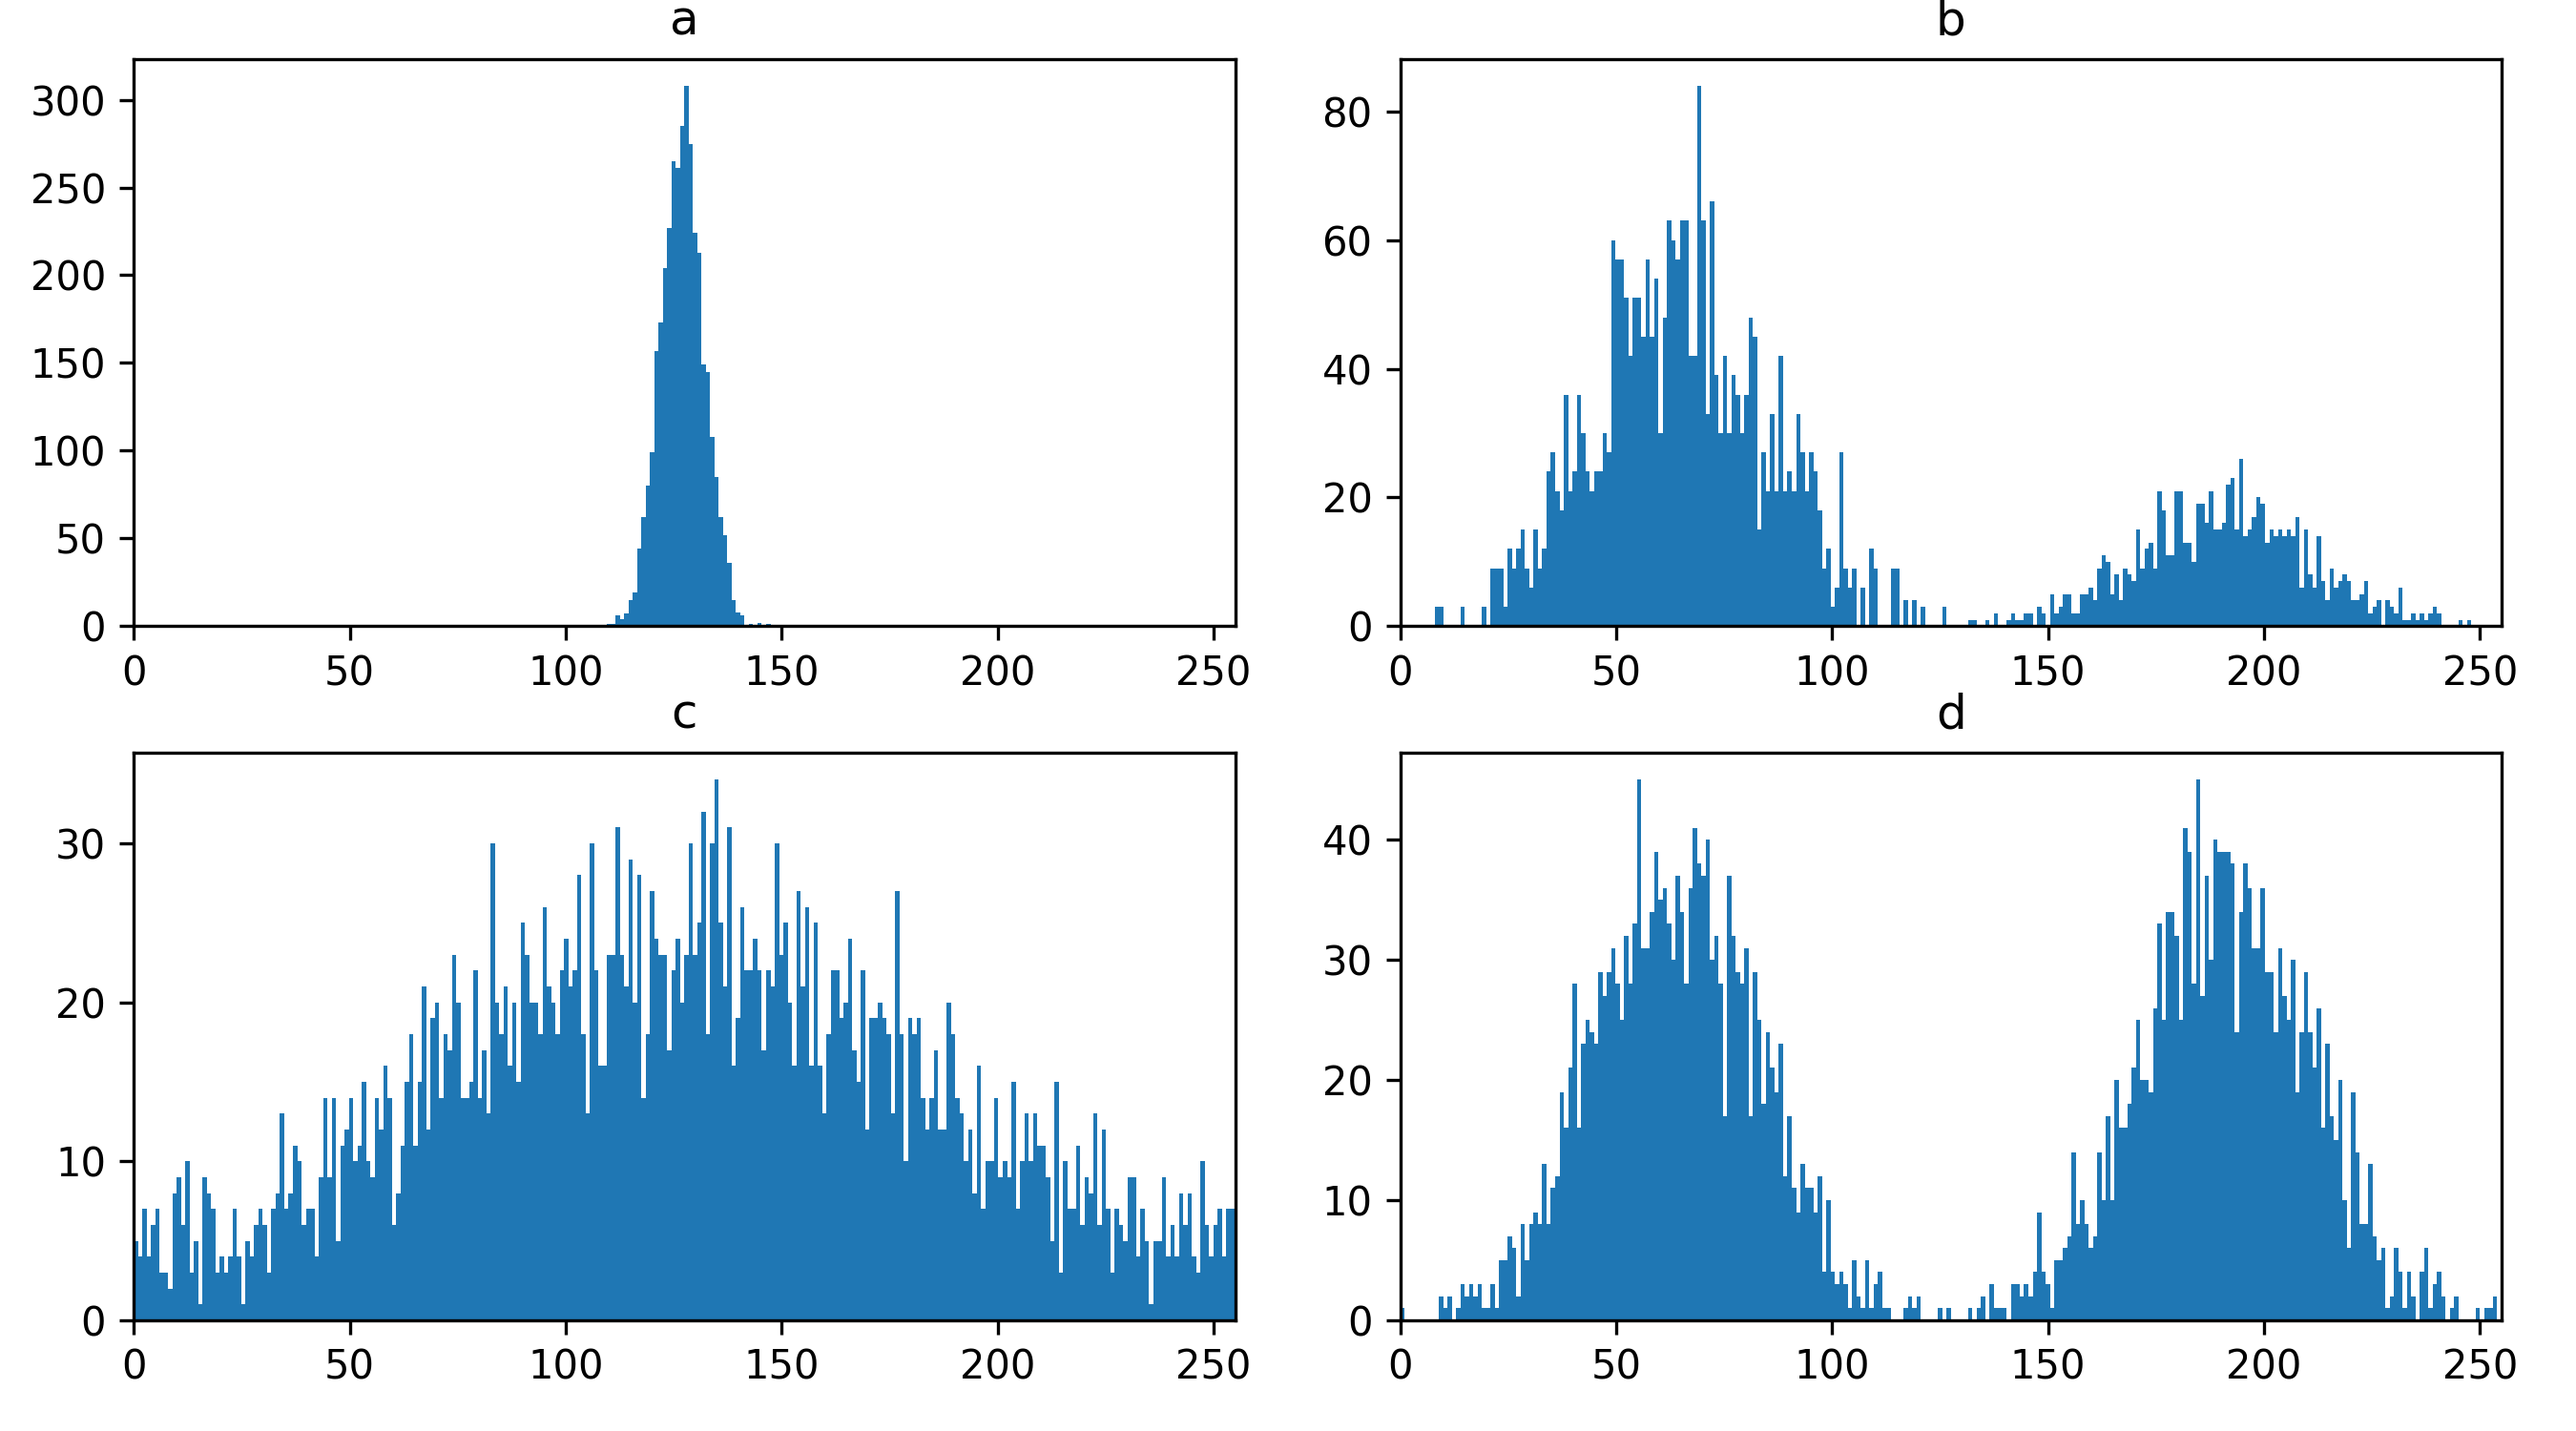
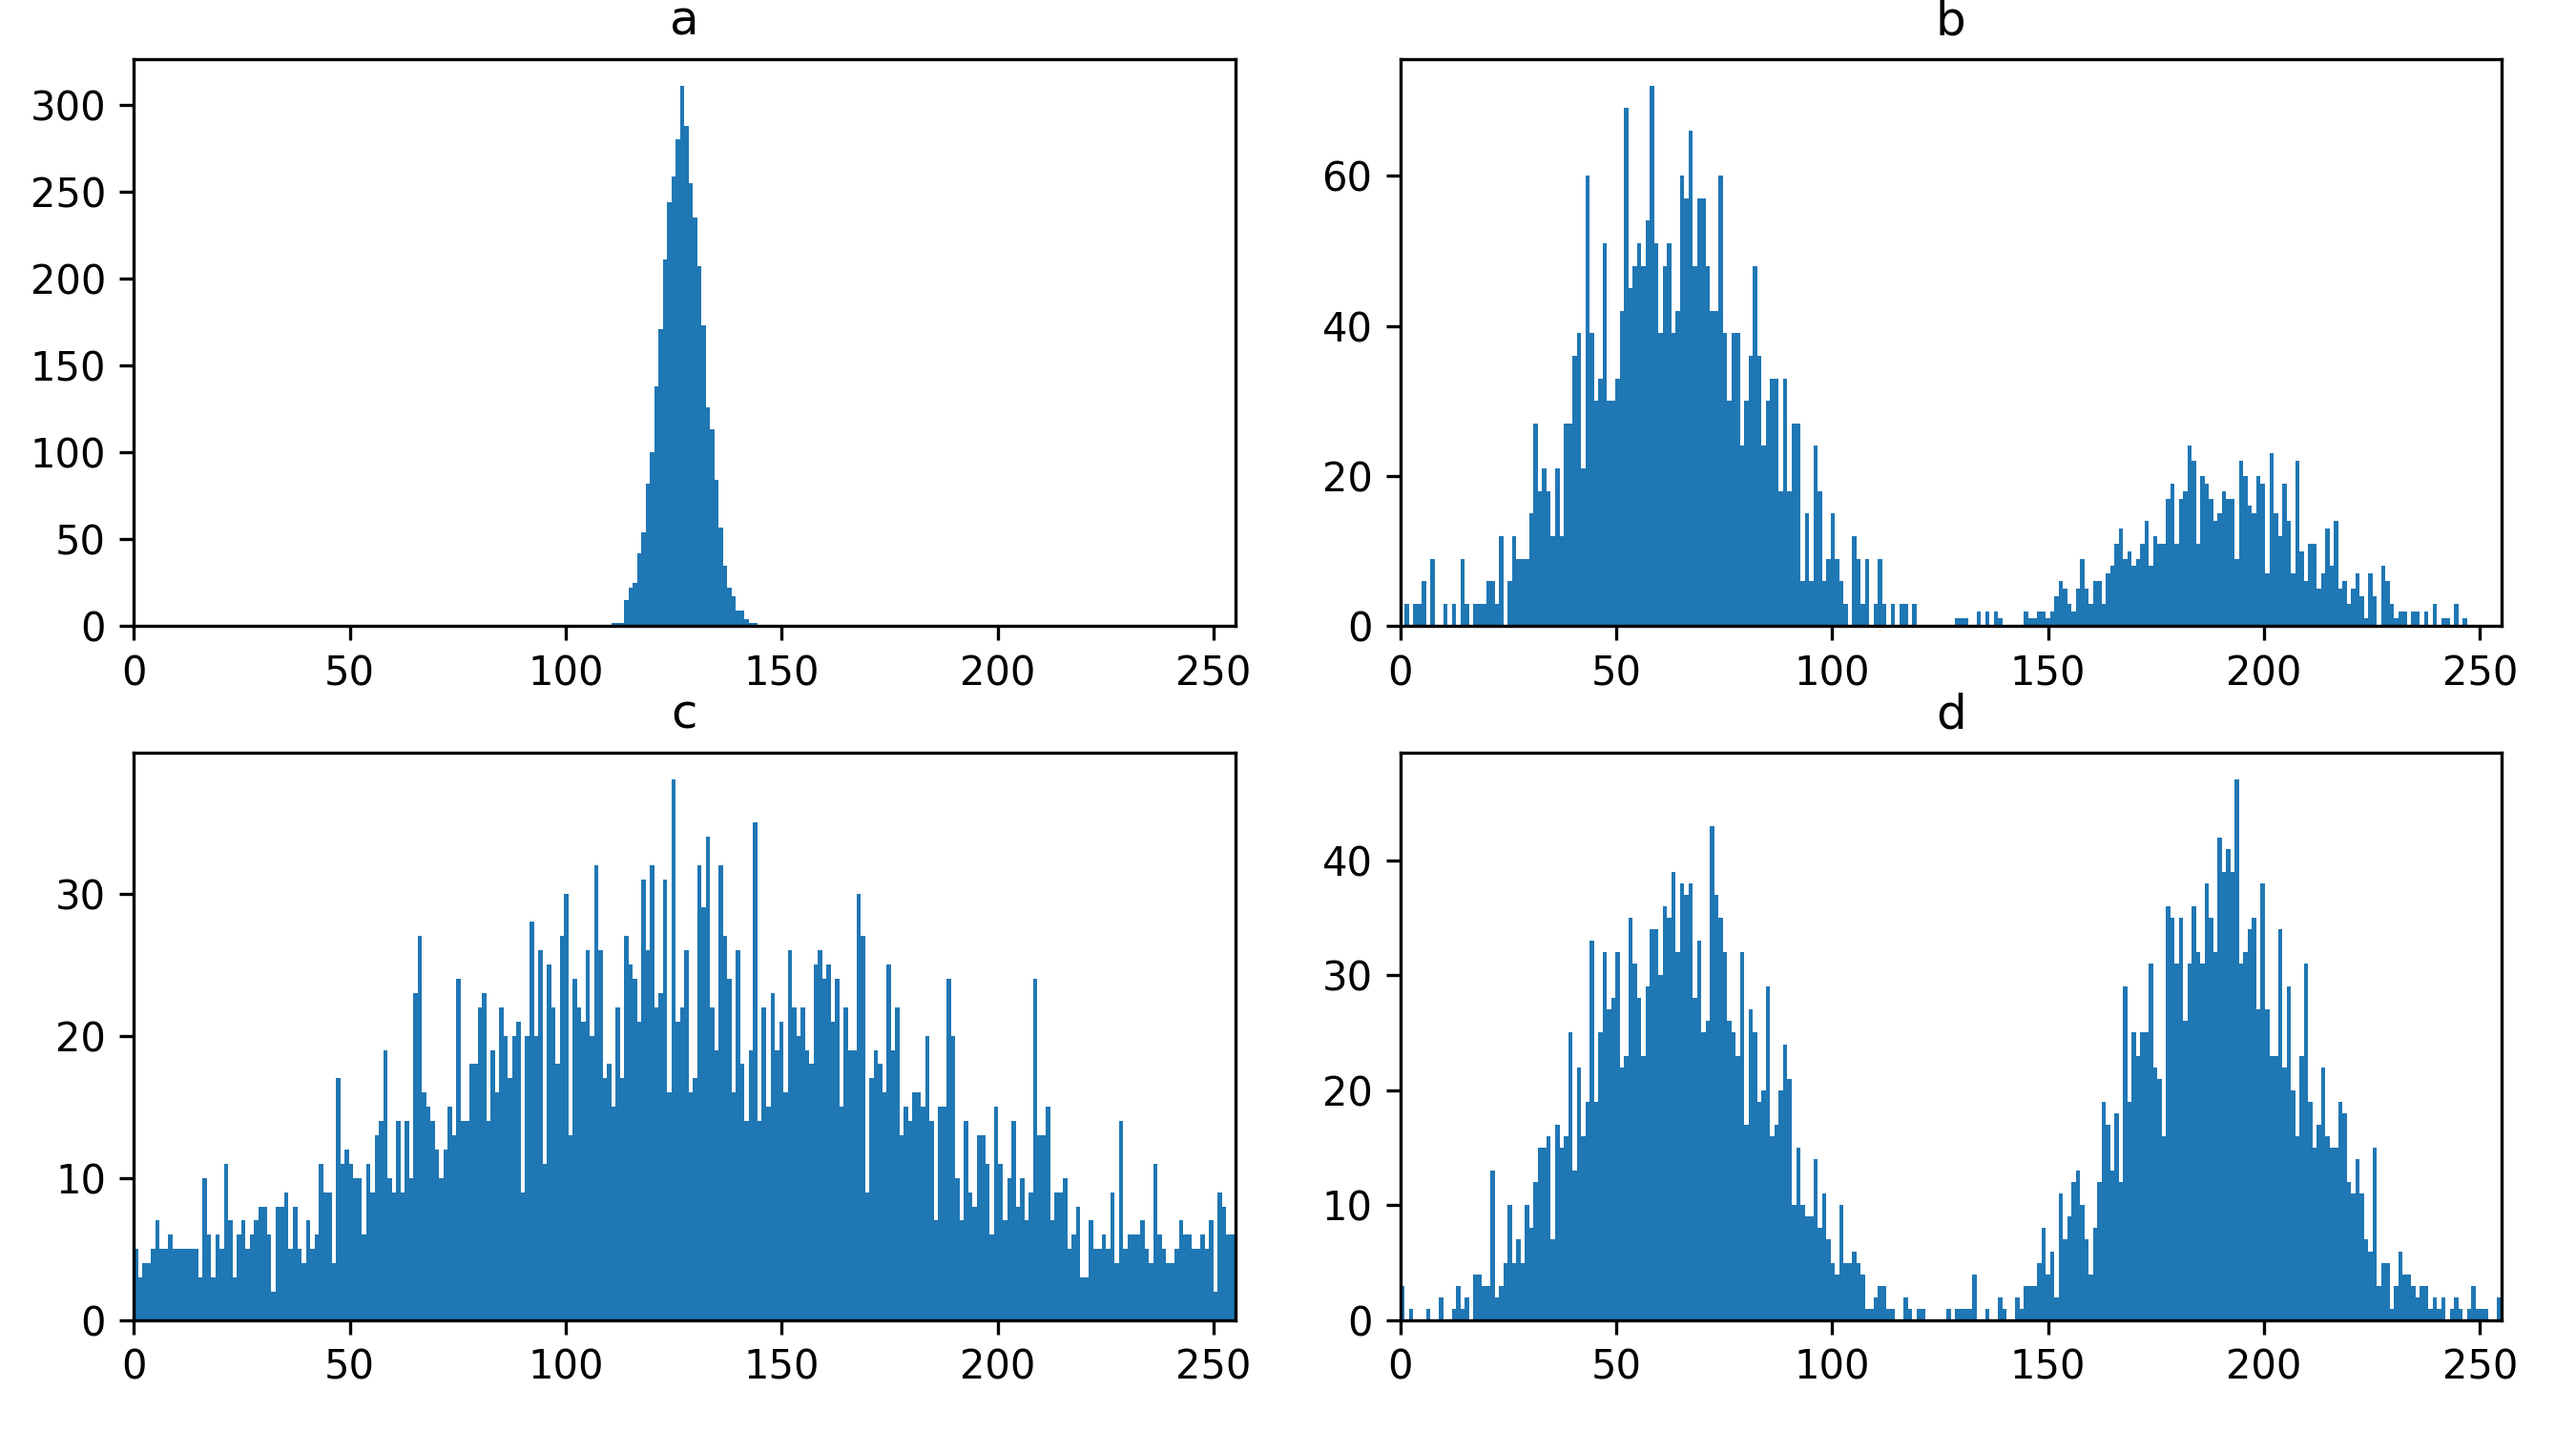
add coins image to plots

diff --git a/episodes/files/image-display-plots/histogram_exercise.py b/episodes/files/image-display-plots/histogram_exercise.py
@@ -1,13 +1,8 @@
 from pathlib import Path
 
 import matplotlib.pyplot as plt
-from skimage import data
 import matplotlib
 import numpy as np
-import napari
-
-# Based on updating histogram colours:
-# https://matplotlib.org/stable/gallery/statistics/hist.html#sphx-glr-gallery-statistics-hist-py
 
 matplotlib.use('Qt5Agg')
 
@@ -24,45 +19,54 @@ def clip(image):
     return image.astype("uint8")
 
 
+def generate_sample_images(image_size):
+    # Use a size divisible by 2
+
+    gauss1 = np.random.normal(255 / 2, 60, size=(image_size, image_size)).astype("uint8")
+    gauss2 = np.random.normal(255 / 2, 5, size=(image_size, image_size)).astype("uint8")
+
+    split1 = clip(
+        np.random.normal(255 * 0.75, 20, size=(image_size, image_size // 2)))
+    split2 = clip(
+        np.random.normal(255 * 0.25, 20, size=(image_size, image_size // 2)))
+    combo1 = np.zeros(shape=(image_size, image_size))
+    combo1[:, 0:image_size // 2] = split1
+    combo1[:, image_size // 2:combo1.shape[1]] = split2
+
+    split1 = clip(
+        np.random.normal(255 * 0.75, 20, size=(image_size // 2, image_size // 2)))
+    split2 = clip(
+        np.random.normal(255 * 0.25, 20, size=(image_size // 2, image_size // 2)))
+    combo2 = np.zeros(shape=(image_size, image_size))
+    combo2[0:image_size // 2, 0:image_size // 2] = split1
+    combo2[image_size // 2:combo2.shape[0], image_size // 2:combo2.shape[1]] = split2
+    combo2[image_size // 2:combo2.shape[0], 0:image_size // 2] = split2
+    combo2[0:image_size // 2, image_size // 2:combo2.shape[1]] = split2
+
+    return gauss1, gauss2, combo1, combo2
+
+
 def generate_histogram_exercise_plots(save_dir):
+    """Generate plot with 4 simple sample images (labelled 1-4) and another
+    plot with corresponding histograms (labelled a-d)"""
+
     # Use a size divisible by 2
     image_size = 60
-
-    gauss1 = np.random.normal(255/2, 60, size=(image_size, image_size)).astype("uint8")
-    gauss2 = np.random.normal(255/2, 5, size=(image_size, image_size)).astype("uint8")
-
-    split1 = clip(
-        np.random.normal(255*0.75, 20, size=(image_size, image_size//2)))
-    split2 = clip(
-        np.random.normal(255*0.25, 20, size=(image_size, image_size//2)))
-    combo1 = np.zeros(shape=(image_size, image_size))
-    combo1[:, 0:image_size//2] = split1
-    combo1[:, image_size//2:combo1.shape[1]] = split2
-
-    split1 = clip(
-        np.random.normal(255*0.75, 20, size=(image_size//2, image_size//2)))
-    split2 = clip(
-        np.random.normal(255*0.25, 20, size=(image_size//2, image_size//2)))
-    combo2 = np.zeros(shape=(image_size, image_size))
-    combo2[0:image_size//2, 0:image_size//2] = split1
-    combo2[image_size//2:combo2.shape[0], image_size//2:combo2.shape[1]] = split2
-    combo2[image_size//2:combo2.shape[0], 0:image_size//2] = split2
-    combo2[0:image_size//2, image_size//2:combo2.shape[1]] = split2
+    sample_images = generate_sample_images(image_size)
 
     fig, [[ax1, ax2], [ax3, ax4]] = plt.subplots(2, 2)
     fig.set_size_inches(9, 5)
     fig.tight_layout()
-    images = [gauss1, gauss2, combo1, combo2]
     axes = [ax3, ax1, ax4, ax2]
     titles = ["c", "a", "d", "b"]
-    for image, ax, title in zip(images, axes, titles):
+    for image, ax, title in zip(sample_images, axes, titles):
         plot_histogram(image, 0, 255, ax, title)
     plt.savefig(Path(save_dir) / "exercise-histograms.png", dpi=300)
 
     fig, [[ax1, ax2], [ax3, ax4]] = plt.subplots(2, 2)
     axes = [ax2, ax3, ax1, ax4]
     titles = ["2", "3", "1", "4"]
-    for image, ax, title in zip(images, axes, titles):
+    for image, ax, title in zip(sample_images, axes, titles):
         ax.imshow(image, cmap='gray', vmin=0, vmax=255)
         ax.axis('off')
         ax.set_title(title)

diff --git a/episodes/files/image-display-plots/colormap_comparison.py b/episodes/files/image-display-plots/colormap_comparison.py
@@ -13,11 +13,11 @@ matplotlib.use('Qt5Agg')
 def plot_histogram(image, min, max, title, cmap, ax):
 
     ax.set_xlim(min, max)
+    ax.set_ylabel(title, x=-0.3, y=0.3)
 
     # hide x ticks
     ax.tick_params(bottom=False)
     ax.xaxis.set_ticklabels([])
-    ax.set_title(title)
 
     n, bin_edges, patches = ax.hist(image.flatten(), bins=(max - min) + 1, range=(min, max))
 
@@ -37,20 +37,30 @@ def plot_histogram(image, min, max, title, cmap, ax):
                  orientation='horizontal', ax=ax, pad=0.05)
 
 
-def generate_colormap_plot(save_dir):
-    """Generate plot with 4 histograms and corresponding colorbars"""
+def plot_image(image, min, max, cmap, ax):
+    ax.imshow(image, cmap=cmap, vmin=min, vmax=max)
+    ax.axis('off')
 
-    fig, [[ax1, ax2], [ax3, ax4]] = plt.subplots(2, 2)
-    fig.set_size_inches(9, 5)
+
+def generate_colormap_plot(save_dir):
+    """Generate plot with coloured histograms and images side-by-side for four
+    different colormaps"""
+
+    fig, all_axes = plt.subplots(4, 2)
+    fig.subplots_adjust(hspace=0.3, wspace=0)
+    fig.set_size_inches(6, 9)
     image = data.coins()
     min = 0
     max = 255
-    axes = [ax1, ax2, ax3, ax4]
     cmaps = [plt.cm.gray, plt.cm.Greens, plt.cm.viridis, plt.cm.inferno]
     titles = ["gray", "green", "viridis", "inferno"]
 
-    for ax, cmap, title in zip(axes, cmaps, titles):
-        plot_histogram(image, min, max, title, cmap, ax)
+    for axis_pair, cmap, title in zip(all_axes, cmaps, titles):
+        image_axis = axis_pair[1]
+        hist_axis = axis_pair[0]
 
-    plt.savefig(Path(save_dir) / "colorbar-comparison.png", dpi=300)
+        plot_histogram(image, min, max, title, cmap, hist_axis)
+        plot_image(image, min, max, cmap, image_axis)
+
+    plt.savefig(Path(save_dir) / "colorbar-comparison.png", dpi=200, bbox_inches='tight')
 

diff --git a/episodes/files/image-display-plots/brightness_comparison.py b/episodes/files/image-display-plots/brightness_comparison.py
@@ -12,8 +12,7 @@ import numpy as np
 matplotlib.use('Qt5Agg')
 
 
-def plot_histogram(image, min, max, contrast_min, contrast_max, cmap, hide_x_ticks=True):
-    fig, ax = plt.subplots()
+def plot_histogram(image, ax, min, max, contrast_min, contrast_max, cmap, hide_x_ticks=True):
     ax.set_xlim(min, max)
 
     if hide_x_ticks:
@@ -64,8 +63,15 @@ def plot_histogram(image, min, max, contrast_min, contrast_max, cmap, hide_x_tic
     cb.ax.xaxis.set_ticks([], minor=True)
 
 
+def plot_image(image, min, max, cmap, ax):
+    ax.imshow(image, cmap=cmap, vmin=min, vmax=max)
+    ax.axis('off')
+
+
 def generate_contrast_plot(save_dir):
-    """generate multiple plots with different contrast settings - histogram + colorbar"""
+    """generate multiple plots with different contrast settings - showing a coloured histogram,
+    colorbar and corresponding image"""
+
     image = data.coins()
     cmap = plt.cm.gray
     min = 0
@@ -74,6 +80,10 @@ def generate_contrast_plot(save_dir):
     contrast_maxes = [255, 255, 200]
 
     for contrast_min, contrast_max in zip(contrast_mins, contrast_maxes):
-        plot_histogram(image, min, max, contrast_min, contrast_max, cmap)
+        fig, axes = plt.subplots(1, 2)
+        fig.subplots_adjust(wspace=0.05)
+        fig.set_size_inches(8, 3)
+        plot_histogram(image, axes[0], min, max, contrast_min, contrast_max, cmap)
+        plot_image(image, contrast_min, contrast_max, cmap, axes[1])
         plt.savefig(Path(save_dir) / f"contrast-comparison-{contrast_min}-{contrast_max}.png",
                     dpi=300, bbox_inches='tight')
